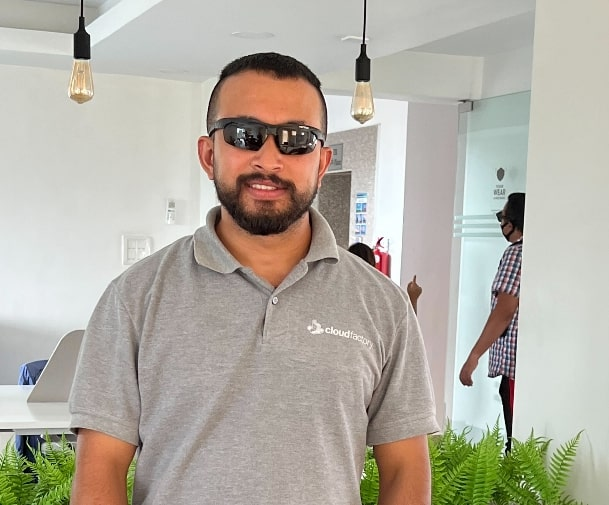
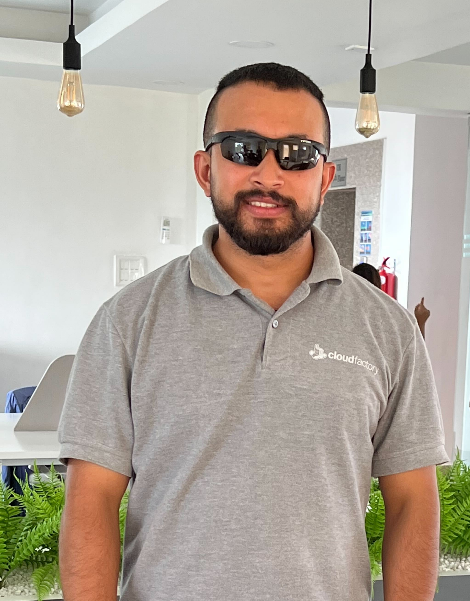
fix: update bio

diff --git a/layouts/shortcodes/img.html b/layouts/shortcodes/img.html
@@ -1,0 +1,1 @@
+<img src="{{ .Get 0 }}" style="object-fit: cover; box-shadow: 4px 4px 4px #333;">

diff --git a/content/bio.md b/content/bio.md
@@ -4,4 +4,10 @@ description: 'Biography of Yadav Lamichhane'
 date: '2023-08-13'
 author: Yadav Lamichhane
 ---
-Yadav Lamichhane (he/him) is an engineer, computer scientist, and cyclist best known for an SRE Engineer.
+Yadav Lamichhane (he/him) is a computer engineer by profession and currently working as Site Reliability Engineer at Cloudfactory.
+
+Besides work he loves to ride cycle, workouts, play cricket, read books, write blogs. He enjoys exploring open source projects, contributing on it. His domain specialization is on Linux, container runtimes and kernel.
+
+Also, he is one of the organizing member of DevOps Kathmandu group.
+
+{{< img "/img/yadav.jpg" >}}
